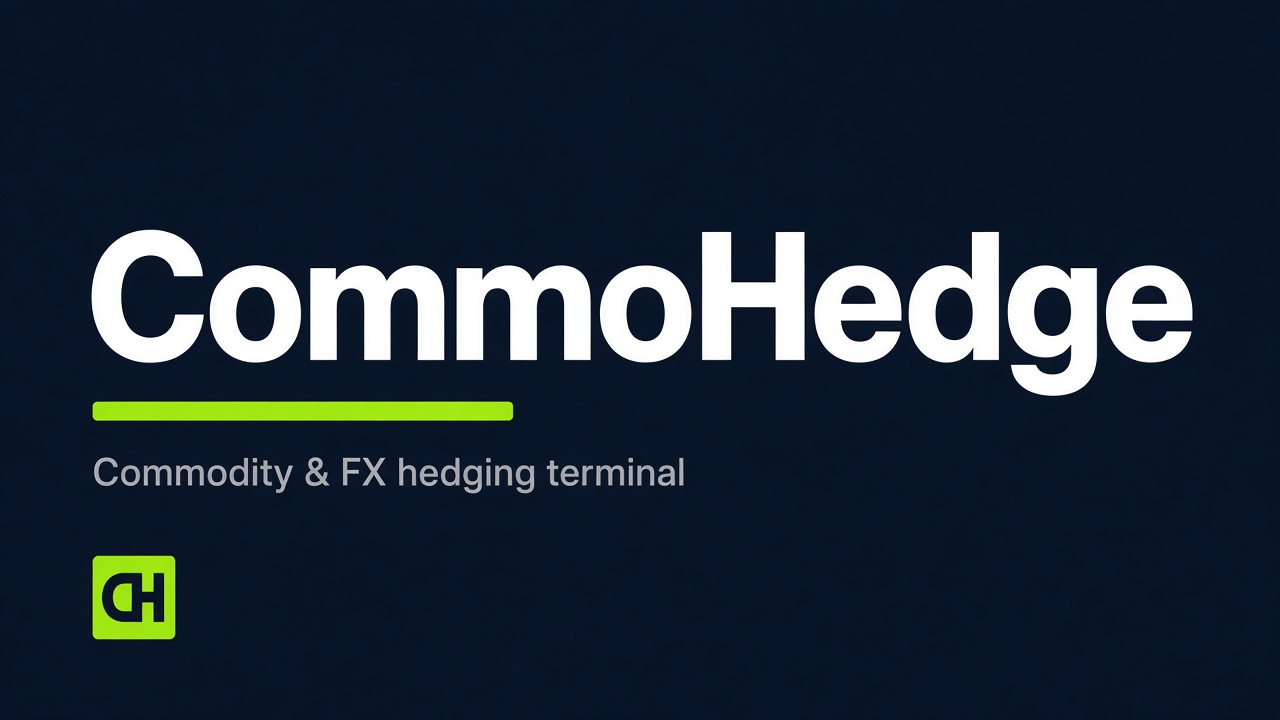
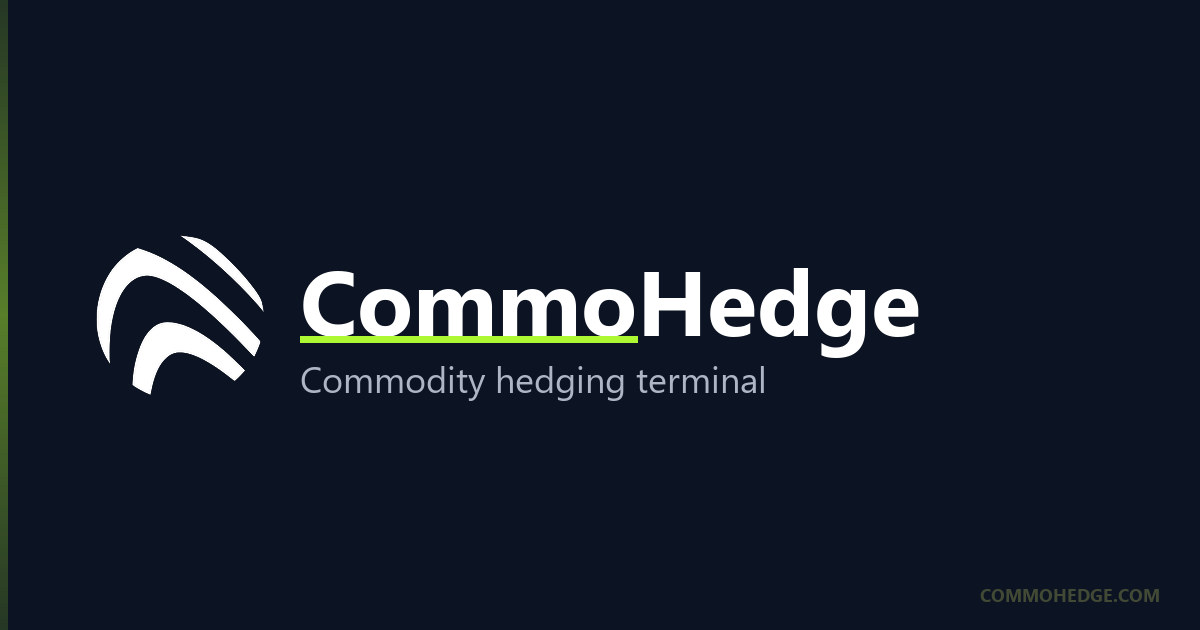
image link adaptation

diff --git a/index.html b/index.html
@@ -18,15 +18,15 @@
     <meta property="og:url" content="https://www.commohedge.com/" />
     <meta property="og:title" content="CommoHedge | Commodity &amp; FX hedging terminal" />
     <meta property="og:description" content="CommoHedge — commodity &amp; FX hedging terminal for pricing, exposures, strategy builder and market data. Built for treasury, trading and risk desks." />
-    <meta property="og:image" content="https://www.commohedge.com/og-image.png" />
+    <meta property="og:image" content="https://www.commohedge.com/og-image.png?v=20261105" />
     <meta property="og:image:width" content="1200" />
     <meta property="og:image:height" content="630" />
-    <meta property="og:image:alt" content="CommoHedge — Commodity &amp; FX hedging terminal" />
+    <meta property="og:image:alt" content="CommoHedge — Commodity hedging terminal" />
 
     <meta name="twitter:card" content="summary_large_image" />
     <meta name="twitter:title" content="CommoHedge | Commodity &amp; FX hedging terminal" />
     <meta name="twitter:description" content="CommoHedge — commodity &amp; FX hedging terminal for pricing, exposures, strategy builder and market data. Built for treasury, trading and risk desks." />
-    <meta name="twitter:image" content="https://www.commohedge.com/og-image.png" />
+    <meta name="twitter:image" content="https://www.commohedge.com/og-image.png?v=20261105" />
 
     <script src="/theme-init.js"></script>
     <link rel="icon" href="/favicon.ico" sizes="any" />

diff --git a/scripts/seo-static-shells.ts b/scripts/seo-static-shells.ts
@@ -87,7 +87,7 @@ function applySeoHead(html: string, seo: PageSeo): string {
   out = setOrReplace(
     out,
     /<meta\s+property="og:image"\s+content="[^"]*"\s*\/?>/i,
-    `<meta property="og:image" content="${SITE_ORIGIN}/og-image.png" />`,
+    `<meta property="og:image" content="${SITE_ORIGIN}/og-image.png?v=20261105" />`,
   );
   out = setOrReplace(
     out,
@@ -107,7 +107,7 @@ function applySeoHead(html: string, seo: PageSeo): string {
   out = setOrReplace(
     out,
     /<meta\s+name="twitter:image"\s+content="[^"]*"\s*\/?>/i,
-    `<meta name="twitter:image" content="${SITE_ORIGIN}/og-image.png" />`,
+    `<meta name="twitter:image" content="${SITE_ORIGIN}/og-image.png?v=20261105" />`,
   );
 
   // Drop Lovable leftover if still present in an old artifact

diff --git a/src/seo/blog-articles.ts b/src/seo/blog-articles.ts
@@ -1540,7 +1540,7 @@ export function buildBlogArticleJsonLd(article: BlogArticle) {
   // Keep origin inline to avoid a runtime cycle with site-seo.ts
   const origin = "https://www.commohedge.com";
   const pageUrl = `${origin}${article.path}`;
-  const imageUrl = `${origin}/og-image.png`;
+  const imageUrl = `${origin}/og-image.png?v=20261105`;
   return {
     "@context": "https://schema.org",
     "@type": "Article",
